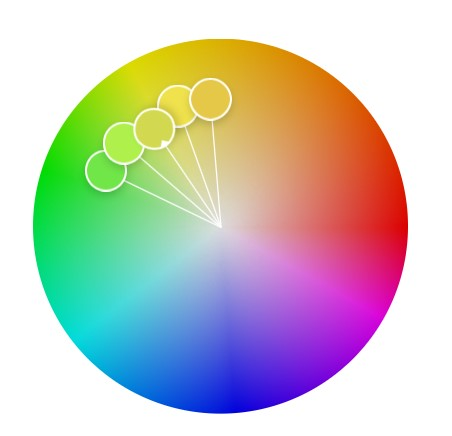
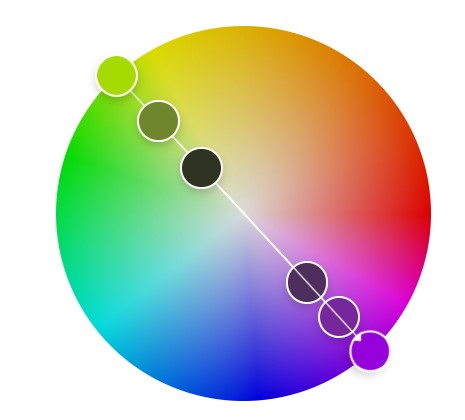
got two blobs on screen at once

Changed region(s): [[0.0619, 0.0619, 0.9292, 0.9595]]

diff --git a/script.js b/script.js
@@ -1,5 +1,5 @@
 //color palette
-const palette = ["#AFF04D", "#71E649", "#D2D950", "#F0E24D", "#E6C849"]
+const palette = ["#4D2E5C", "#77279C", "#70862D", "#9600DB", "#A5DB00"]
 
 
 var id = null;
@@ -12,6 +12,17 @@ window.onload = function () { //need window.onload so that you call the element 
         context.arc(0, 0, radius, 0, 2 * Math.PI);
         context.stroke();
     }
+
+    //blob start values
+    var dist = 0;
+    var which_color = 1; //index of current color from palette array, skipping index 0 which is the background
+    var how_big = 5; 
+
+    //rand color + updater
+    var rand_color = Math.floor((Math.random()*4) + 1);
+    function update_rand_color(){ 
+        rand_color = Math.floor((Math.random()*4) + 1); //index 1-4, exclude 0 (bg)
+    }
    
     //static info blob
     var static = document.getElementById("static-canvas");
@@ -22,32 +33,57 @@ window.onload = function () { //need window.onload so that you call the element 
     //animated blobs
     var animation = document.getElementById("animation-canvas");
     var anim = animation.getContext("2d");
-    var size = 0;
-    var which_color = 1; //index of current color from palette array, skipping index 0 which is the background
-    var how_big = 5; 
 
-    //clearInterval(id);
+    function animate_blob(dist, color, how_big){
 
-    id = setInterval(frame, 25);
+        let start_animation = setInterval(erase_and_draw, 25);
+
+        function erase_and_draw(){
+            draw_blob(palette[0], how_big + 3, dist, anim); //clear
+            //anim.clearRect(0, 0, 1000, 1000); //see above (to get multiple blobs at once, clear right away by immediately redrawing over it in bg color)
+            //console.log(c.style.width); this is an empty string -- why? even if changed to pxls in style.css
+            //anim.clearRect(c.style.left, c.style.top, c.style.width, c.style.height);
+            dist++;
+            draw_blob(color, how_big, dist, anim); //draw
+            console.log(dist);
+            update_rand_color();
+
+            if(dist > 45){
+                clearInterval(start_animation);
+            }
+        }
+    }
+
+    animate_blob(dist, rand_color, how_big)
+    animate_blob(dist+10, rand_color, how_big)
+    //setInterval(animate_blob(dist, rand_color, how_big), 10);
+
+    //id = setInterval(frame, 25);
+/*
     function frame() {
-    if (size == 450) {
+    if (dist == 45) {
         //clearInterval(id); //stop animation
-        anim.clearRect(0, 0, 1000, 1000);
-        size = 0;
+        //anim.clearRect(0, 0, 1000, 1000);
+        draw_blob(palette[0], how_big + 3, dist, anim);
+        dist = 0;
         how_big = (Math.random() * 25) + 5; //line weight between 5 and 25
-        if (which_color != palette.length){
+        if (which_color != palette.length-1){
             which_color++;
         }else{
             which_color = 1; //reset if at end of array
         }
     } else {
-        anim.clearRect(0, 0, 1000, 1000);
+        //draw_blob(palette[0], how_big + 3, dist, anim); //clear
+        //anim.clearRect(0, 0, 1000, 1000); //see above (to get multiple blobs at once, clear right away by immediately redrawing over it in bg color)
         //console.log(c.style.width); this is an empty string -- why? even if changed to pxls in style.css
         //anim.clearRect(c.style.left, c.style.top, c.style.width, c.style.height);
-        size++;
-        draw_blob(which_color, how_big, size, anim); 
+        //dist++;
+        //draw_blob(which_color, how_big, dist, anim); //draw
+        
     }
-  }
+    
+  }*/
+
 
     
 }

diff --git a/style.css b/style.css
@@ -1,5 +1,5 @@
 html{
-    background-color: #AFF04D;
+    background-color: #4D2E5C;
 }
 
 header{
